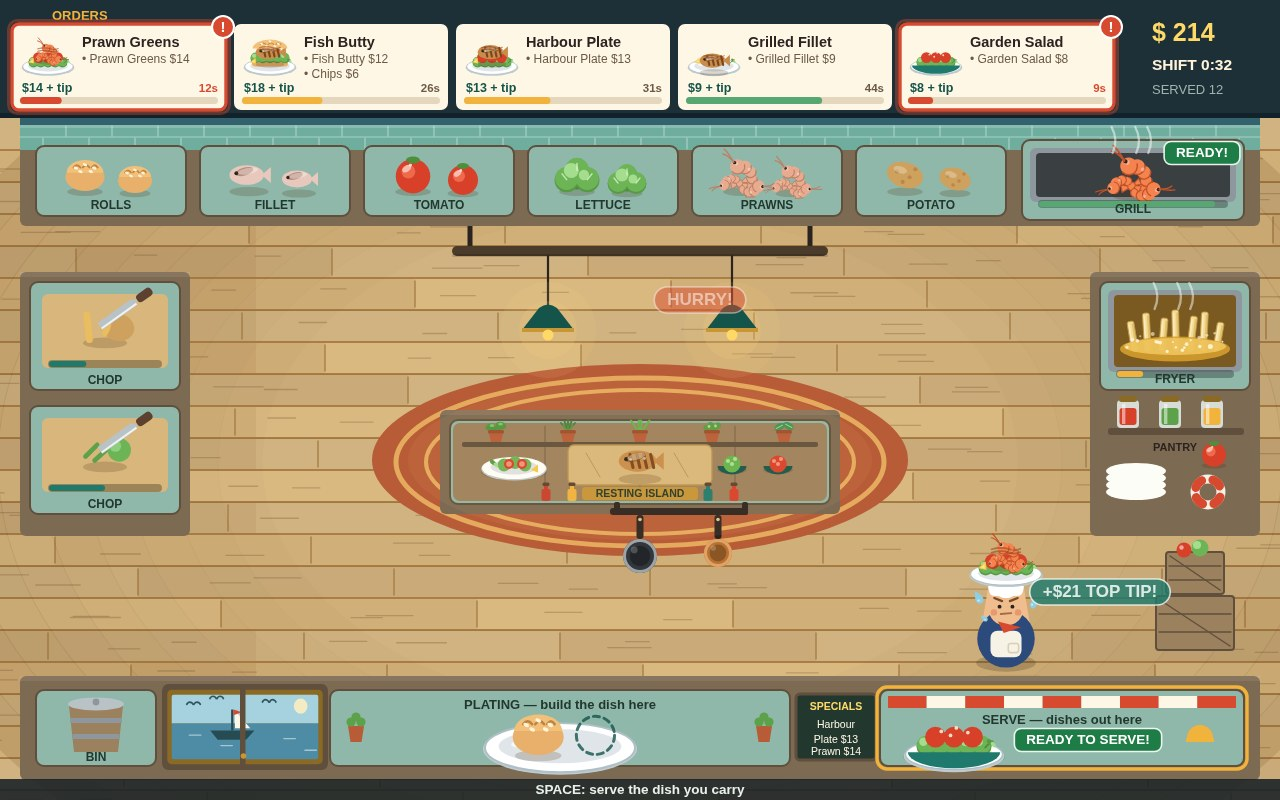
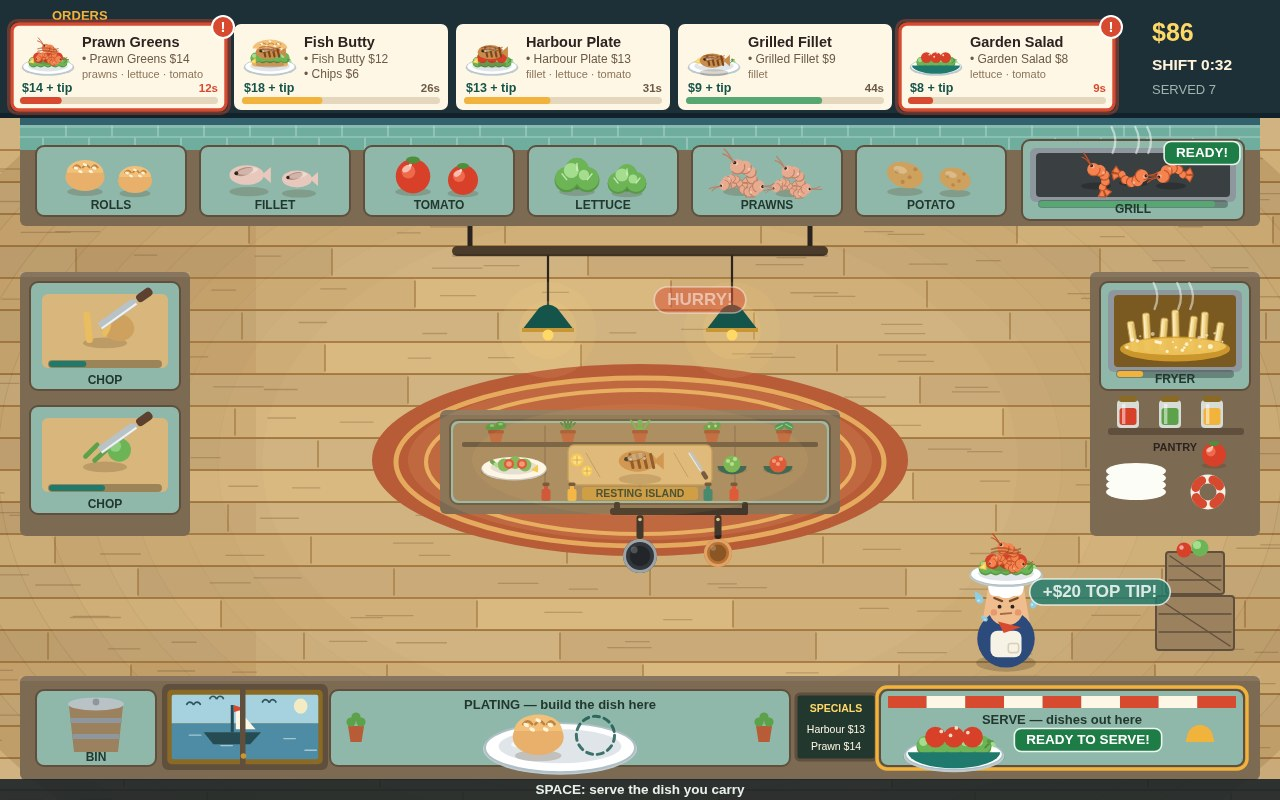
V14: honesty-and-consistency round — rush scoreboard inside the audited envelope, ticket make-up lines, one money dialect, grill prawn row, end panel clears its cook

diff --git a/game/src/render.js b/game/src/render.js
@@ -659,6 +659,29 @@ function drawFryerCooking(ctx, cx, cy) {
   }
 }
 
+/**
+ * Prawns on the grill, drawn as a spaced row of individuals across the
+ * bars — the tray treatment from the island (AUDIT-V13 P3), applied to
+ * the other surface where prawns rest. Through drawItem they land as
+ * the three-curl overlapping pile, which reads as one orange mass on
+ * the grill's dark panel; in a row, each prawn keeps its own outline
+ * in whichever state — raw, grilled, burnt — the clock says.
+ */
+function drawGrillPrawns(ctx, shown, cx, cy) {
+  const cols = shown === 'prawns_raw' ? { body: '#e8ab90', line: '#bd7f63' }
+    : shown === 'prawns_grilled' ? { body: '#f4834f', line: '#c25227' }
+      : { body: '#503a2c', line: '#2e2019' };
+  const sheen = shown !== 'prawns_burnt';
+  for (const [ox, oy, rot] of [[-37, -3, 0.35], [1, -6, 2.45], [38, -3, -0.85]]) {
+    ctx.fillStyle = 'rgba(0,0,0,0.22)';
+    ctx.beginPath(); ctx.ellipse(cx + ox, cy + oy + 9, 15, 3.4, 0, 0, Math.PI * 2); ctx.fill();
+    ctx.save();
+    ctx.translate(cx + ox, cy + oy);
+    drawPrawn(ctx, cols, rot, sheen);
+    ctx.restore();
+  }
+}
+
 function drawMachine(ctx, state, station, machine) {
   const kind = station.kind;
   const cookAt = kind === 'grill' ? GRILL_COOK : FRYER_COOK;
@@ -673,8 +696,10 @@ function drawMachine(ctx, state, station, machine) {
     const cook = COOKED[machine.item];
     const shown = machine.t >= burnAt ? cook.burnt : machine.t >= cookAt ? cook.makes : machine.item;
     // In the fryer, raw cut potato gets its own cooking scene (batons in
-    // bubbling oil); everywhere else the item itself is the picture.
+    // bubbling oil); on the grill, prawns get their spaced row; everywhere
+    // else the item itself is the picture.
     if (kind === 'fryer' && machine.t < cookAt) drawFryerCooking(ctx, cx, cy);
+    else if (kind === 'grill' && shown.startsWith('prawns')) drawGrillPrawns(ctx, shown, cx, cy);
     else drawItem(ctx, shown, cx, cy - 4, kind === 'grill' ? 54 : 52);
     const color = machine.t >= burnAt ? COLORS.red : machine.t >= cookAt ? COLORS.timerGood : COLORS.mustard;
     drawProgress(ctx, station.x + 16, station.y + station.h - 20, station.w - 32, machine.t / burnAt, color);
@@ -851,7 +876,14 @@ function drawKitchen(ctx, state) {
   // The sun's glint in the top corner of the sky.
   ctx.fillStyle = 'rgba(255,240,190,0.85)';
   ctx.beginPath(); ctx.arc(302, 709, 6.5, 0, Math.PI * 2); ctx.fill();
-  // The boat: dark hull, one mast, a white sail, a red flag.
+  // The boat: dark hull, one mast, a white sail, a red flag. The window
+  // itself is as large as the counter face allows (V13), so the picture
+  // inside it grows instead: the boat is scaled up about its own centre,
+  // or at judge size it stays a dark dash with a white fleck for a sail.
+  ctx.save();
+  ctx.translate(237, 725);
+  ctx.scale(1.3, 1.3);
+  ctx.translate(-237, -725);
   ctx.fillStyle = '#274b52';
   ctx.beginPath();
   ctx.moveTo(216, 730); ctx.lineTo(258, 730); ctx.lineTo(250, 738); ctx.lineTo(223, 738);
@@ -861,6 +893,7 @@ function drawKitchen(ctx, state) {
   ctx.beginPath(); ctx.moveTo(239.5, 713); ctx.lineTo(239.5, 728); ctx.lineTo(254, 728); ctx.closePath(); ctx.fill();
   ctx.fillStyle = COLORS.red;
   ctx.beginPath(); ctx.moveTo(238, 712); ctx.lineTo(246, 714.4); ctx.lineTo(238, 716.8); ctx.closePath(); ctx.fill();
+  ctx.restore();
   // Gulls: three small double-arcs over the water.
   ctx.strokeStyle = '#33555e';
   ctx.lineWidth = 1.6;
@@ -883,10 +916,12 @@ function drawKitchen(ctx, state) {
   ctx.strokeStyle = '#5f4f3c';
   ctx.lineWidth = 3;
   rr(ctx, 796, 694, 80, 66, 4); ctx.stroke();
-  text(ctx, 'SPECIALS', 836, 707, 10.5, '#ffd968');
-  text(ctx, 'Harbour', 836, 725, 10.5, '#fff7e6', 'center', false);
-  text(ctx, 'Plate $13', 836, 740, 10.5, '#fff7e6', 'center', false);
-  text(ctx, 'Prawn $14', 836, 752, 10.5, '#fff7e6', 'center', false);
+  text(ctx, 'SPECIALS', 836, 709, 10.5, '#ffd968');
+  // Two whole lines: the board is 80 wide and cannot grow (plating ends at
+  // 790, serve starts at 880), and "Harbour Plate $13" snapped in half at
+  // that width — a fragment, a price line and a dish. The words give way.
+  text(ctx, 'Harbour $13', 836, 730, 10.5, '#fff7e6', 'center', false);
+  text(ctx, 'Prawn $14', 836, 747, 10.5, '#fff7e6', 'center', false);
   // Two fish crates stacked against the right counter by the serve window, the
   // morning's catch still in the top one.
   const crate = (x, y, w, h) => {
@@ -1029,6 +1064,33 @@ function drawKitchen(ctx, state) {
       for (const sx of [station.x + 136, station.x + 224]) {
         ctx.beginPath(); ctx.moveTo(sx, station.y + 33); ctx.lineTo(sx + 14, station.y + 57); ctx.stroke();
       }
+      // The board's two margins dressed with the tools of its work: lemon
+      // halves waiting on the left, the knife resting on the right — drawn
+      // with the board, under whatever rests on it, and clear of the tray's
+      // span, so the surface reads as worked, not a plank with a tenant.
+      for (const [lx, ly, lr] of [[station.x + 127, station.y + 40, 6.5], [station.x + 137, station.y + 51, 5.5]]) {
+        ctx.fillStyle = '#f7c948';
+        ctx.beginPath(); ctx.arc(lx, ly, lr, 0, Math.PI * 2); ctx.fill();
+        ctx.fillStyle = '#fbe38a';
+        ctx.beginPath(); ctx.arc(lx, ly, lr * 0.68, 0, Math.PI * 2); ctx.fill();
+        ctx.strokeStyle = 'rgba(201,150,53,0.8)';
+        ctx.lineWidth = 1;
+        ctx.beginPath(); ctx.moveTo(lx - lr * 0.6, ly); ctx.lineTo(lx + lr * 0.6, ly); ctx.stroke();
+        ctx.beginPath(); ctx.moveTo(lx, ly - lr * 0.6); ctx.lineTo(lx, ly + lr * 0.6); ctx.stroke();
+      }
+      ctx.save();
+      ctx.translate(station.x + 248, station.y + 45);
+      ctx.rotate(1.0);
+      ctx.scale(0.66, 0.66);
+      ctx.fillStyle = COLORS.steel;
+      ctx.beginPath();
+      ctx.moveTo(-23, -3.4); ctx.lineTo(8, -3.4); ctx.lineTo(12.5, 0); ctx.lineTo(8, 3); ctx.lineTo(-23, 3);
+      ctx.closePath(); ctx.fill();
+      ctx.fillStyle = '#eef3f4';
+      ctx.fillRect(-23, 1.1, 33, 1.6);
+      ctx.fillStyle = '#5d4030';
+      rr(ctx, 12, -3.4, 13.5, 6.8, 3); ctx.fill();
+      ctx.restore();
       // A dressed resting plate at the left end: greens, tomato, a lemon wedge.
       // Drawn a step larger than it was — at 27 across, its dressing collapsed
       // into coloured dots on a white oval at contact-sheet size.
@@ -1098,16 +1160,16 @@ function drawKitchen(ctx, state) {
           const it = state.island.item;
           const ty = station.y + 46;
           ctx.fillStyle = 'rgba(74,44,16,0.20)';
-          ctx.beginPath(); ctx.ellipse(cx, ty + 6, 46, 11, 0, 0, Math.PI * 2); ctx.fill();
+          ctx.beginPath(); ctx.ellipse(cx, ty + 6, 49, 11, 0, 0, Math.PI * 2); ctx.fill();
           ctx.fillStyle = '#8d979d';
-          ctx.beginPath(); ctx.ellipse(cx, ty + 2, 45, 12.5, 0, 0, Math.PI * 2); ctx.fill();
+          ctx.beginPath(); ctx.ellipse(cx, ty + 2, 48, 12.5, 0, 0, Math.PI * 2); ctx.fill();
           ctx.fillStyle = '#c3ced3';
-          ctx.beginPath(); ctx.ellipse(cx, ty, 41, 10.5, 0, 0, Math.PI * 2); ctx.fill();
+          ctx.beginPath(); ctx.ellipse(cx, ty, 44, 10.5, 0, 0, Math.PI * 2); ctx.fill();
           const cols = it === 'prawns_raw' ? { body: '#e8ab90', line: '#bd7f63' }
             : it === 'prawns_grilled' ? { body: '#f4834f', line: '#c25227' }
             : { body: '#503a2c', line: '#2e2019' };
           const sheen = it !== 'prawns_burnt';
-          for (const [ox, oy, rot, sc] of [[-23, 1, 0.35, 0.92], [1, -3, 2.45, 0.85], [24, 1, -0.85, 0.9]]) {
+          for (const [ox, oy, rot, sc] of [[-25, 1, 0.35, 1.03], [1, -3, 2.45, 0.96], [26, 1, -0.85, 1.0]]) {
             ctx.save();
             ctx.translate(cx + ox, ty + oy);
             ctx.scale(sc, sc);
@@ -1248,8 +1310,14 @@ function drawKitchen(ctx, state) {
   // feels like evening service instead of a bare floor with a table on it.
   // The rail is carried on two iron uprights from the back counter's edge —
   // at its old span it floated over the floor, supported by nothing.
-  ctx.fillStyle = 'rgba(255,205,120,0.07)';
+  // The pool is drawn to be seen: at its old 0.07 the lamps lit nothing and
+  // the middle band stayed bare tone. Two flat pools now — a wide one over
+  // the rug's ground, a tighter warmer one over the island itself — still
+  // quieter than anything that carries information.
+  ctx.fillStyle = 'rgba(255,205,120,0.12)';
   ctx.beginPath(); ctx.ellipse(640, 460, 232, 80, 0, 0, Math.PI * 2); ctx.fill();
+  ctx.fillStyle = 'rgba(255,205,120,0.08)';
+  ctx.beginPath(); ctx.ellipse(640, 460, 168, 56, 0, 0, Math.PI * 2); ctx.fill();
   ctx.fillStyle = '#2b2320';
   for (const ux of [470, 810]) ctx.fillRect(ux - 2.5, 226, 5, 24);
   ctx.fillStyle = '#4a3b2a';
@@ -1453,6 +1521,16 @@ function drawBoard(ctx, state) {
       text(ctx, `${line.done ? '✓' : '•'} ${DISHES[line.dish].name} $${DISHES[line.dish].price}`, x + 70, lineY, 12, line.done ? COLORS.teal : '#6b5a44', 'left', false);
       lineY += 14.5;
     }
+    if (ticket.items.length === 1 && DISHES[main.dish].items) {
+      // A one-dish card has a dead band under its single line, and the line
+      // itself only repeats the title. Fill the band with what the dish is
+      // made of — the fetching route the game is about, in short piece
+      // names — so the board carries the depth, not an echo. Combo cards
+      // already fill both of their lines and keep them.
+      const shortPiece = (item) => (item === 'bun' ? 'roll' : item.replace('_grilled', '').replace('_cut', ''));
+      const parts = DISHES[main.dish].items.map(shortPiece).join(' · ');
+      text(ctx, parts, x + 70, lineY, 11, '#8a755a', 'left', false);
+    }
     // The bottom row: what the ticket pays on the left, the seconds left on the right.
     text(ctx, `$${ticket.price} + tip`, x + 10, y + h - 21, 12.5, COLORS.tealDark, 'left');
     text(ctx, `${Math.ceil(ticket.timeLeft)}s`, x + cardW - 8, y + h - 21, 11.5, frac <= 0.25 ? COLORS.red : '#6b5a44', 'right');
@@ -1475,13 +1553,19 @@ function drawBoard(ctx, state) {
   if (state.tickets.length === 0 && state.phase === 'play') {
     text(ctx, 'No orders — breathe. The rush is coming…', 20, 62, 16, '#9fb4ac', 'left', false);
   }
-  // HUD on the right of the board.
+  // HUD on the right of the board. Money is written the same way everywhere
+  // in the game — tickets and popups say "$13" and "+$16", so the board says
+  // "$86", never "$ 86". And the readouts only exist once a shift does: on
+  // the title screen there is no score, no clock and no served count to
+  // report, so the board band wears just its ORDERS label there.
   const hx = 1152;
-  text(ctx, `$ ${state.score}`, hx, 34, 25, '#ffd968', 'left');
-  const mm = Math.floor(Math.max(0, state.shiftLeft) / 60);
-  const ss = Math.floor(Math.max(0, state.shiftLeft) % 60);
-  text(ctx, `SHIFT ${mm}:${String(ss).padStart(2, '0')}`, hx, 66, 15.5, state.shiftLeft <= 20 && state.phase === 'play' ? '#ff8a75' : COLORS.cream, 'left');
-  text(ctx, `SERVED ${state.served}`, hx, 90, 13, '#9fb4ac', 'left', false);
+  if (state.phase !== 'title') {
+    text(ctx, `$${state.score}`, hx, 34, 25, '#ffd968', 'left');
+    const mm = Math.floor(Math.max(0, state.shiftLeft) / 60);
+    const ss = Math.floor(Math.max(0, state.shiftLeft) % 60);
+    text(ctx, `SHIFT ${mm}:${String(ss).padStart(2, '0')}`, hx, 66, 15.5, state.shiftLeft <= 20 && state.phase === 'play' ? '#ff8a75' : COLORS.cream, 'left');
+    text(ctx, `SERVED ${state.served}`, hx, 90, 13, '#9fb4ac', 'left', false);
+  }
 }
 
 /** A chalkboard panel in the specials board's own style: wood frame, dark green board. */
@@ -1539,19 +1623,29 @@ function drawOverlays(ctx, state) {
     text(ctx, 'PRESS ENTER — FIRST SHIFT', cx, 660, 20, '#7dff9a');
   } else {
     text(ctx, 'LAST ORDERS — SHIFT OVER', cx, 184, 44, '#ffd968');
-    text(ctx, `You took $ ${state.score}`, cx, 238, 29, COLORS.cream);
+    text(ctx, `You took $${state.score}`, cx, 238, 29, COLORS.cream);
     // The shift's story, dish by dish: what actually went out of the kitchen,
     // counted line by line as it was served.
-    chalkPanel(ctx, 290, 264, 700, 196);
+    // The panel is narrowed about the centre (290 → 345, centre still 640):
+    // at its old width its left edge sliced through the captured cook, who
+    // stands at x≈301 with a body spanning roughly x270–334 — and his
+    // position is the run's own data, so the panel moves, never he does.
+    chalkPanel(ctx, 345, 264, 590, 196);
     text(ctx, 'SERVED THIS SHIFT', cx, 288, 13.5, '#9fb4ac');
-    [...RECIPES, FRIES].forEach((dish, i) => {
-      const colX = i < 3 ? 480 : 800;
-      const y = 326 + (i % 3) * 42;
-      const n = state.servedBy[dish.id] || 0;
+    // The lines read in the order the shift happened, strongest first
+    // (ties in menu order): the counts are the capture's own and none
+    // changes, but the two ×0 lines fall to the last row together instead
+    // of sitting mid-panel where the eye lands after the ×5.
+    const servedList = [...RECIPES, FRIES]
+      .map((dish, order) => ({ dish, n: state.servedBy[dish.id] || 0, order }))
+      .sort((a, b) => b.n - a.n || a.order - b.order);
+    servedList.forEach(({ dish, n }, i) => {
+      const colX = i % 2 === 0 ? 480 : 800;
+      const y = 326 + Math.floor(i / 2) * 42;
       drawDish(ctx, dish.id, colX - 82, y, 40);
       text(ctx, `${dish.name} ×${n}`, colX - 56, y, 15.5, n > 0 ? COLORS.cream : '#71827a', 'left', false);
     });
-    text(ctx, `Dishes served ${state.served}      Walkouts ${state.walkouts}      Best tip $ ${state.bestTip}`, cx, 490, 17.5, '#cfe0d8', 'center', false);
+    text(ctx, `Dishes served ${state.served}      Walkouts ${state.walkouts}      Best tip $${state.bestTip}`, cx, 490, 17.5, '#cfe0d8', 'center', false);
     const [letter, title] = gradeFor(state.score);
     text(ctx, `KITCHEN GRADE: ${letter} — ${title}`, cx, 532, 22, COLORS.mustard);
     text(ctx, 'PRESS R TO WORK ANOTHER SHIFT', cx, 578, 17, '#7dff9a');

diff --git a/game/src/shots.js b/game/src/shots.js
@@ -72,16 +72,19 @@ function title() {
 
 /** Peak rush: a full late-shift board — five tickets with a combo among them,
  *  two in the red zone, and dishes in flight at the grill, the fryer and both
- *  chopping boards at once. */
+ *  chopping boards at once. The scoreboard stays inside the game's measured
+ *  economy: the difficulty audit's best full shift is $100 and 8 served, so a
+ *  frame at 0:32 left shows a strong shift on its way there (7 served, $86),
+ *  never numbers no run has reached. */
 function rush() {
   const s = createGame(11);
   s.phase = 'play';
   s.time = 118;
   s.shiftLeft = 32;
-  s.score = 214;
-  s.served = 12;
+  s.score = 86;
+  s.served = 7;
   s.walkouts = 0;
-  s.bestTip = 9;
+  s.bestTip = 6;
   s.tickets = [
     ticket(9, [['prawns', false]], 14, 12, 57),
     ticket(10, [['butty', false], ['fries', false]], 18, 26, 64),
@@ -103,7 +106,7 @@ function rush() {
   s.chef.y = 636;
   s.chef.carry = 'prawns'; // carrying the answer to ticket #9
   s.popups = [
-    { x: 1100, y: 592, text: '+$21 TOP TIP!', color: '#1f7a6d', t: 0.25, life: 1.4 },
+    { x: 1100, y: 592, text: '+$20 TOP TIP!', color: '#1f7a6d', t: 0.25, life: 1.4 },
     { x: 700, y: 300, text: 'HURRY!', color: '#d84a2f', t: 0.7, life: 1.4 },
   ];
   return s;
